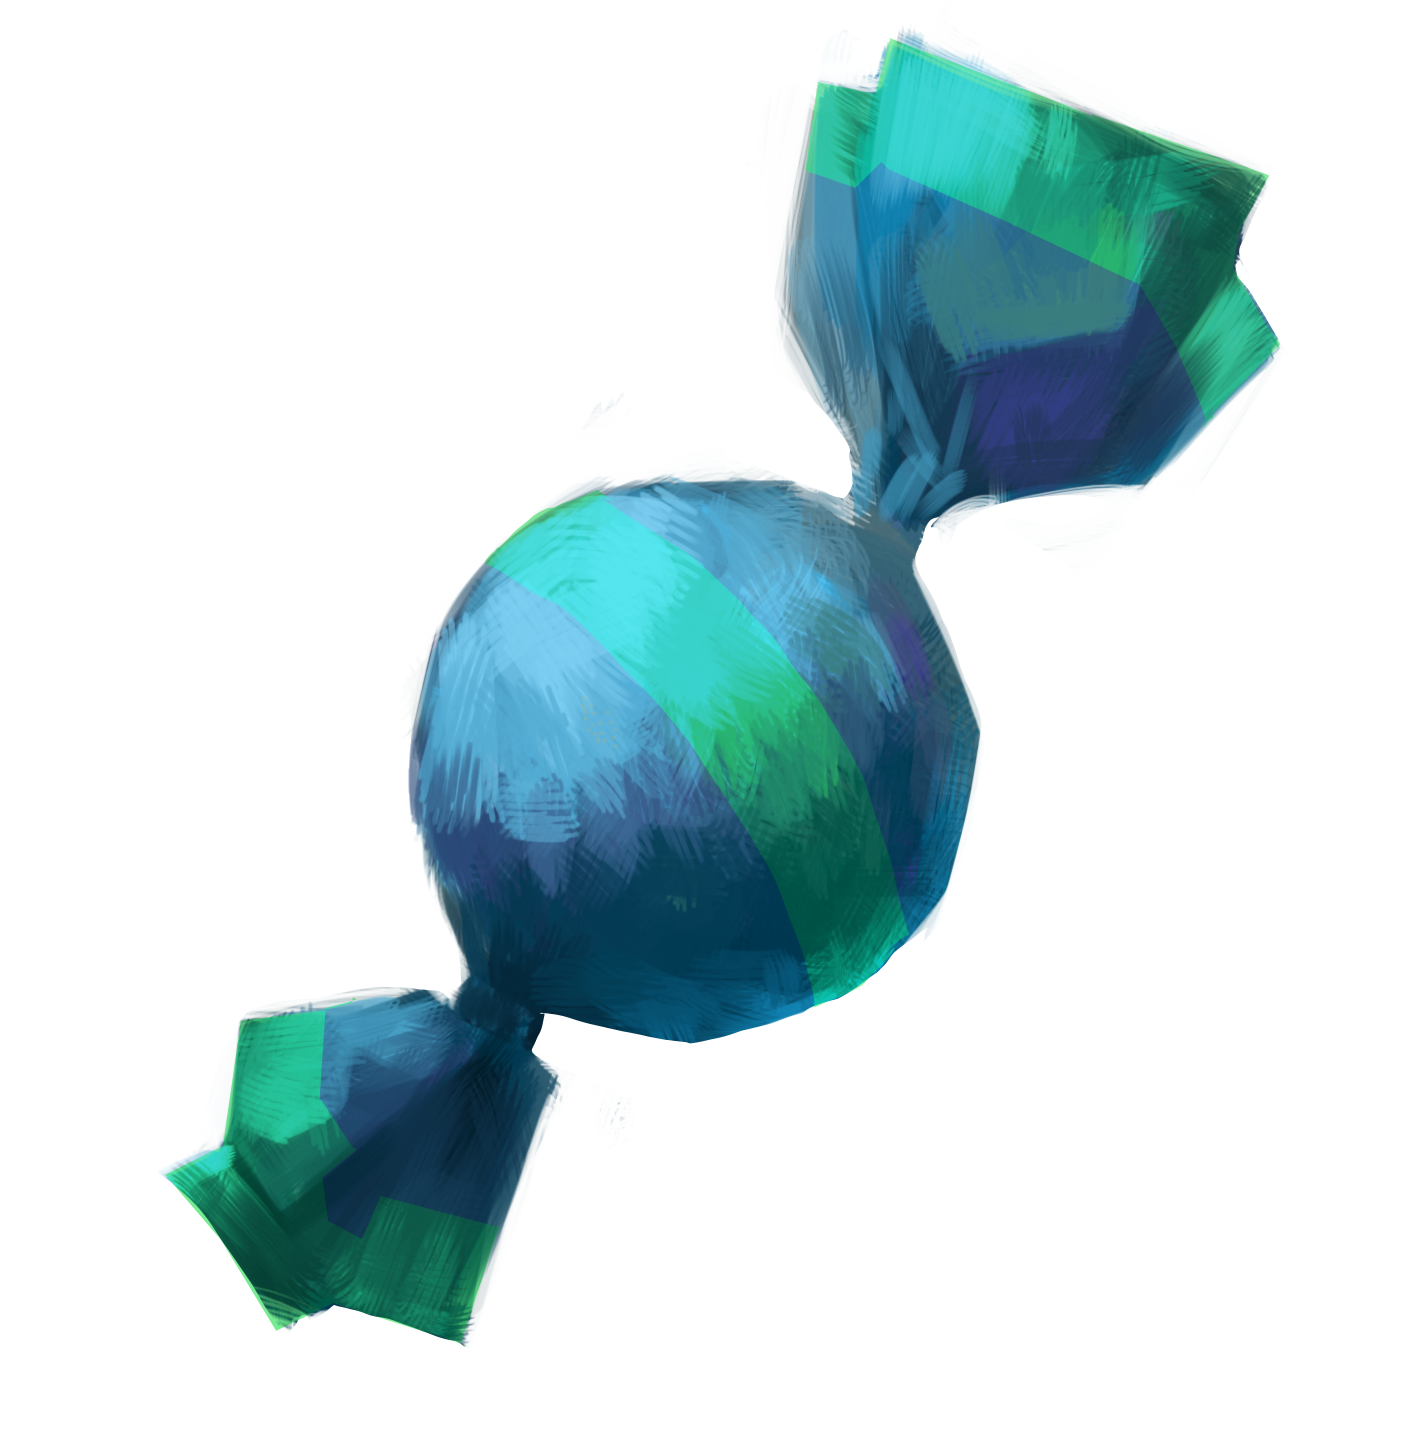
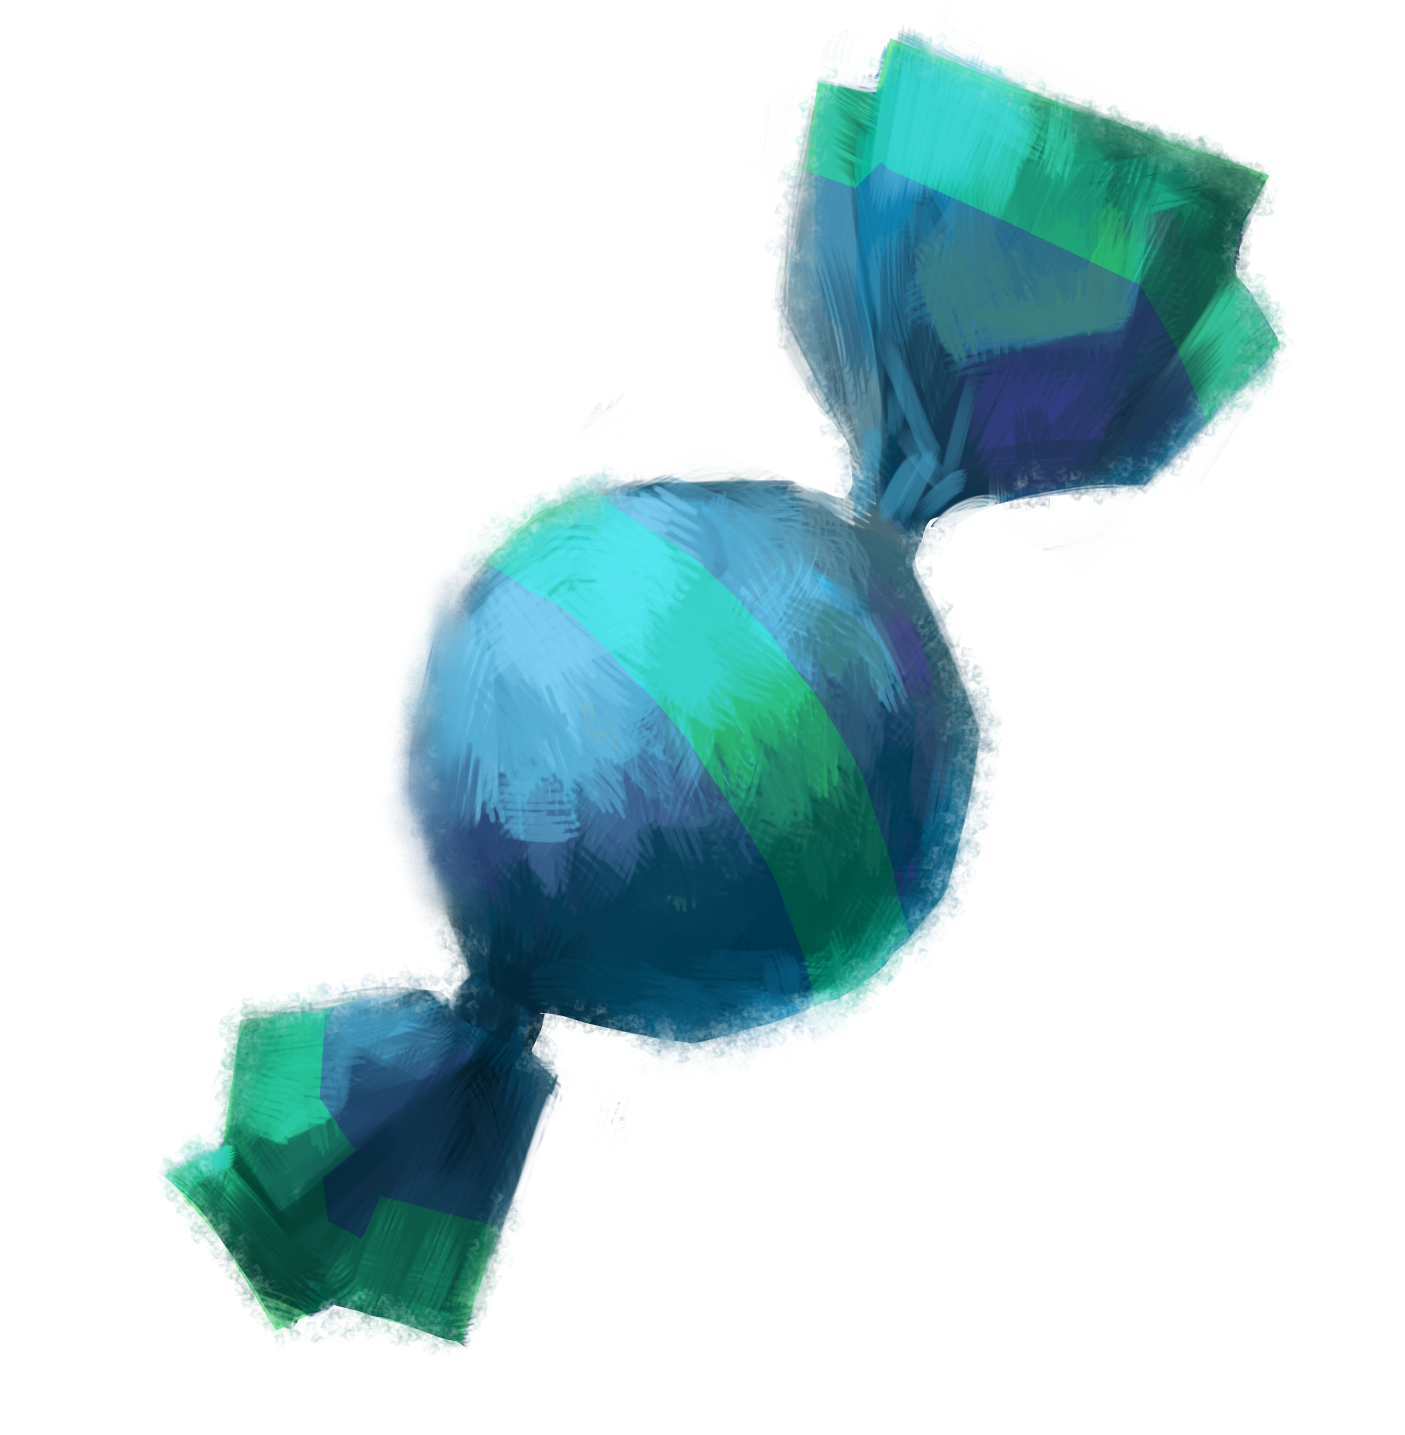
update candy outline shader, show bad candies on news

diff --git a/Soccer Mom Weed Poison Oprah -  Fuck 'Em/Assets/Scripts/NewsScript.cs b/Soccer Mom Weed Poison Oprah -  Fuck 'Em/Assets/Scripts/NewsScript.cs
@@ -8,9 +8,25 @@ public class NewsScript : MonoBehaviour
     public GameObject news1;
     public GameObject news2;
     private bool newsDisplayed = false;
+    private List<GameObject> badCandyList = new List<GameObject>();
     // Start is called before the first frame update
     void Start()
     {
+        for (int i = 0; i < 10; i++)
+        {
+            int good = Random.Range(0, 2);
+            if (good == 0)
+                GameMetaInfo.candyList[i].tag = "good";
+            else
+                GameMetaInfo.candyList[i].tag = "bad";
+        }
+        foreach (GameObject candy in GameMetaInfo.candyList)
+        {
+            if (candy.tag == "bad")
+                badCandyList.Add(candy);
+        }
+        for (int i = 0; i < badCandyList.Count; i++)
+            Instantiate(badCandyList[i], GameObject.Find("BadCandy" + (i + 1).ToString()).transform);
     }
 
     // Update is called once per frame
@@ -21,7 +37,13 @@ public class NewsScript : MonoBehaviour
             newsBoard.SetActive(true);
             news1.SetActive(true);
             news2.SetActive(true);
-
+            foreach (GameObject candy in GameMetaInfo.candyList)
+            {
+                if (candy.tag == "bad")
+                    badCandyList.Add(candy);
+            }
+            for (int i = 0; i < badCandyList.Count; i++)
+                Instantiate(badCandyList[i], GameObject.Find("BadCandy" + (i + 1).ToString()).transform);
         }
     }
 }

diff --git a/Soccer Mom Weed Poison Oprah -  Fuck 'Em/Assets/Scripts/GameMetaInfo.cs b/Soccer Mom Weed Poison Oprah -  Fuck 'Em/Assets/Scripts/GameMetaInfo.cs
@@ -13,6 +13,9 @@ public class GameMetaInfo : MonoBehaviour
     private string player2Name = "Player 2";
     public List<GameObject> prefabList;
     public static List<GameObject> candyList = new List<GameObject>();
+    private int player1Money = 999;
+    private int player2Money = 999;
+
 
     void Awake()
     {
@@ -98,6 +101,25 @@ public class GameMetaInfo : MonoBehaviour
         player2Name = name;
     }
 
+    public int Money
+    {
+        get
+        {
+            if (isPlayer1)
+                return player1Money;
+            else
+                return player2Money;
+        }
+
+        set
+        {
+            if (isPlayer1)
+                player1Money = value;
+            else
+                player2Money = value;
+        }
+    }
+
     public void SwitchPlayer()
     {
         isPlayer1 = !isPlayer1;
@@ -115,6 +137,6 @@ public class GameMetaInfo : MonoBehaviour
 
     public static void StartGame()
     {
-        SceneManager.LoadScene("SwipeDemo");
+        SceneManager.LoadScene("NewsScene");
     }
 }

diff --git a/Soccer Mom Weed Poison Oprah -  Fuck 'Em/Assets/Scripts/StoreScript.cs b/Soccer Mom Weed Poison Oprah -  Fuck 'Em/Assets/Scripts/StoreScript.cs
@@ -8,8 +8,7 @@ public class StoreScript : MonoBehaviour
     private UnityEngine.UI.Text moneyText;
     private UnityEngine.UI.Text candyText;
 
-    // TODO: replace with gamestate variable after merging with Anothoy's work
-    public static int money = 999;
+    private int money;
     private int premCandyNum;
 
     // Start is called before the first frame update
@@ -25,6 +24,7 @@ public class StoreScript : MonoBehaviour
         if (storeActive)
         {
             premCandyNum = GameMetaInfo.Instance.PremiumCandy;
+            money = GameMetaInfo.Instance.Money;
             moneyText.text = "Money: " + money.ToString();
             candyText.text = "Premium Candy: " + premCandyNum.ToString();
         }

diff --git a/Soccer Mom Weed Poison Oprah -  Fuck 'Em/Assets/Scripts/StoreButtons.cs b/Soccer Mom Weed Poison Oprah -  Fuck 'Em/Assets/Scripts/StoreButtons.cs
@@ -22,9 +22,9 @@ public class StoreButtons : MonoBehaviour
 
     public void BuyCandy()
     {
-        if (StoreScript.money > candyCost)
+        if (GameMetaInfo.Instance.Money > candyCost)
         {
-            StoreScript.money -= candyCost;
+            GameMetaInfo.Instance.Money -= candyCost;
             GameMetaInfo.Instance.PremiumCandy++;
         }
     }
